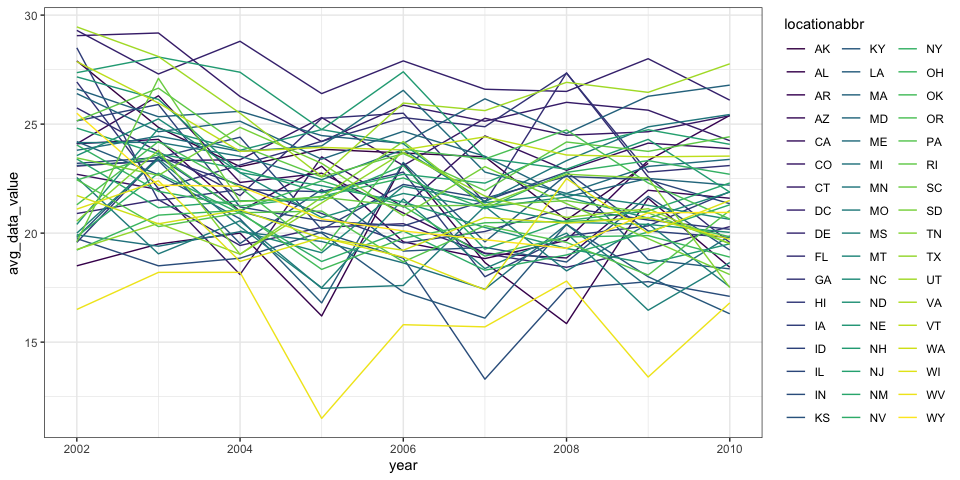
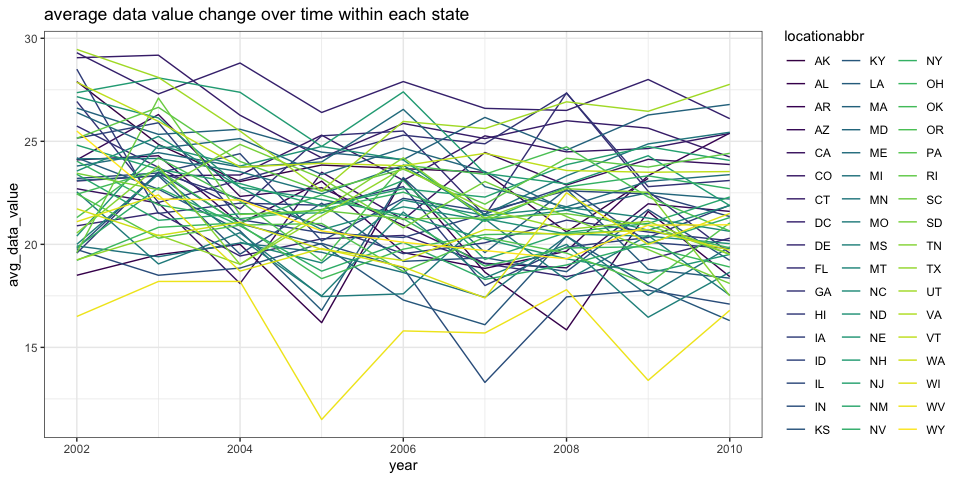
update graphs

diff --git a/P8105_hw3_cx2257.md b/P8105_hw3_cx2257.md
@@ -7,7 +7,7 @@ Congyang Xie
 
 ``` r
 library(p8105.datasets)
-force(data("instacart"))
+data("instacart")
 ```
 
 1.  **Description of the dataset**: The instacart dataset contains
@@ -55,6 +55,7 @@ instacart %>%
   ggplot(aes(x = aisle, y = n)) +
   geom_segment(aes(xend = aisle, yend = 1), color = "#B1B479") +
   geom_point(size = 4, color = "pink") +
+  geom_text(aes(label = n), color = "#B1B479", hjust = -0.25, size = 3) +
   coord_flip() +
   theme_bw() +
   xlab("")
@@ -69,17 +70,14 @@ instacart %>%
 
 ``` r
 freq_prod <- instacart %>%
-  filter(aisle == c(
+  filter(aisle %in% c(
     "baking ingredients",
     "dog food care",
     "packaged vegetables fruits"
   )) %>%
-  # select(aisle, product_name) %>%
   group_by(aisle, product_name) %>%
   summarise(n = n()) %>% 
-  # count(product_name, sort = TRUE) %>%
-  top_n(n = 3, wt = n) %>%
-  arrange(aisle, desc(n))
+  top_n(n = 3, wt = n)
 ```
 
     ## `summarise()` has grouped output by 'aisle'. You can override using the `.groups` argument.
@@ -88,17 +86,17 @@ freq_prod <- instacart %>%
 freq_prod %>% knitr::kable() 
 ```
 
-| aisle                      | product_name                                    |    n |
-|:---------------------------|:------------------------------------------------|-----:|
-| baking ingredients         | Light Brown Sugar                               |  157 |
-| baking ingredients         | Pure Baking Soda                                |  140 |
-| baking ingredients         | Organic Vanilla Extract                         |  122 |
-| dog food care              | Organix Grain Free Chicken & Vegetable Dog Food |   14 |
-| dog food care              | Organix Chicken & Brown Rice Recipe             |   13 |
-| dog food care              | Original Dry Dog                                |    9 |
-| packaged vegetables fruits | Organic Baby Spinach                            | 3324 |
-| packaged vegetables fruits | Organic Raspberries                             | 1920 |
-| packaged vegetables fruits | Organic Blueberries                             | 1692 |
+| aisle                      | product_name                                  |    n |
+|:---------------------------|:----------------------------------------------|-----:|
+| baking ingredients         | Cane Sugar                                    |  336 |
+| baking ingredients         | Light Brown Sugar                             |  499 |
+| baking ingredients         | Pure Baking Soda                              |  387 |
+| dog food care              | Organix Chicken & Brown Rice Recipe           |   28 |
+| dog food care              | Small Dog Biscuits                            |   26 |
+| dog food care              | Snack Sticks Chicken & Rice Recipe Dog Treats |   30 |
+| packaged vegetables fruits | Organic Baby Spinach                          | 9784 |
+| packaged vegetables fruits | Organic Blueberries                           | 4966 |
+| packaged vegetables fruits | Organic Raspberries                           | 5546 |
 
 5.  **Make a table showing the mean hour of the day at which Pink Lady
     Apples and Coffee Ice Cream are ordered on each day of the week;
@@ -108,7 +106,7 @@ freq_prod %>% knitr::kable()
 order_mean_hour_df <- 
   instacart %>%
   select(product_name, order_dow, order_hour_of_day) %>%
-  filter(product_name == c("Pink Lady Apples", "Coffee Ice Cream")) %>%
+  filter(product_name %in% c("Pink Lady Apples", "Coffee Ice Cream")) %>%
   group_by(product_name, order_dow) %>%
   mutate(order_mean_hour = mean(order_hour_of_day)) %>%
   arrange(product_name, order_dow) %>%
@@ -123,8 +121,8 @@ order_mean_hour_df %>% knitr::kable(caption = "The mean hour of items ordered ea
 
 | product_name     | Sunday | Monday | Tuesday | Wednesday | Thursday | Friday | Saturday |
 |:-----------------|-------:|-------:|--------:|----------:|---------:|-------:|---------:|
-| Coffee Ice Cream |  13.22 |  15.00 |   15.33 |     15.40 |    15.17 |  10.33 |    12.35 |
-| Pink Lady Apples |  12.25 |  11.68 |   12.00 |     13.94 |    11.91 |  13.87 |    11.56 |
+| Coffee Ice Cream |  13.77 |  14.32 |   15.38 |     15.32 |    15.22 |  12.26 |    13.83 |
+| Pink Lady Apples |  13.44 |  11.36 |   11.70 |     14.25 |    11.55 |  12.78 |    11.94 |
 
 The mean hour of items ordered each weekday
 
@@ -231,6 +229,7 @@ excellent_df %>%
   ggplot(aes(x = year, y = avg_data_value)) +
   geom_line(aes(group = locationabbr, color = locationabbr)) +
   viridis::scale_color_viridis(discrete = T) +
+  ggtitle("average data value change over time within each state") +
   theme_bw()
 ```
 
